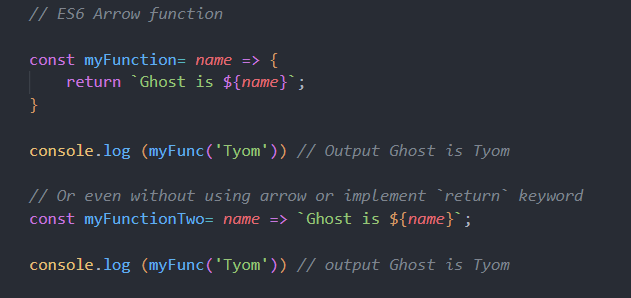
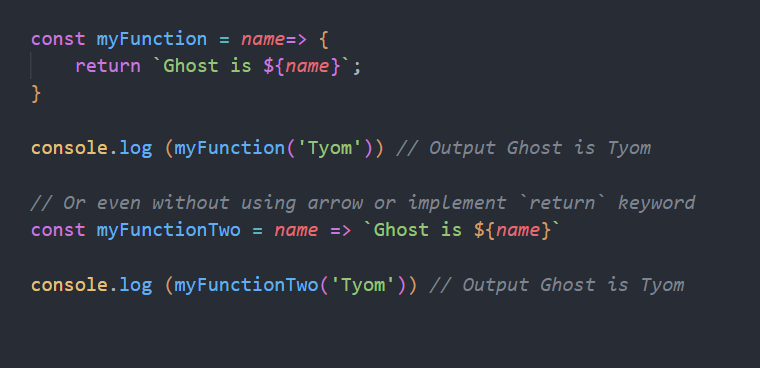
undefined

diff --git a/js.js b/js.js
@@ -1,0 +1,17 @@
+    
+    
+    const myFunction = name=> {
+        return `Ghost is ${name}`;
+    }
+
+    console.log (myFunction('Tyom')) // Output Ghost is Tyom
+
+    // Or even without using arrow or implement `return` keyword
+    const myFunctionTwo = name => `Ghost is ${name}`
+
+    console.log (myFunctionTwo('Tyom')) // Output Ghost is Tyom 
+
+
+
+
+
